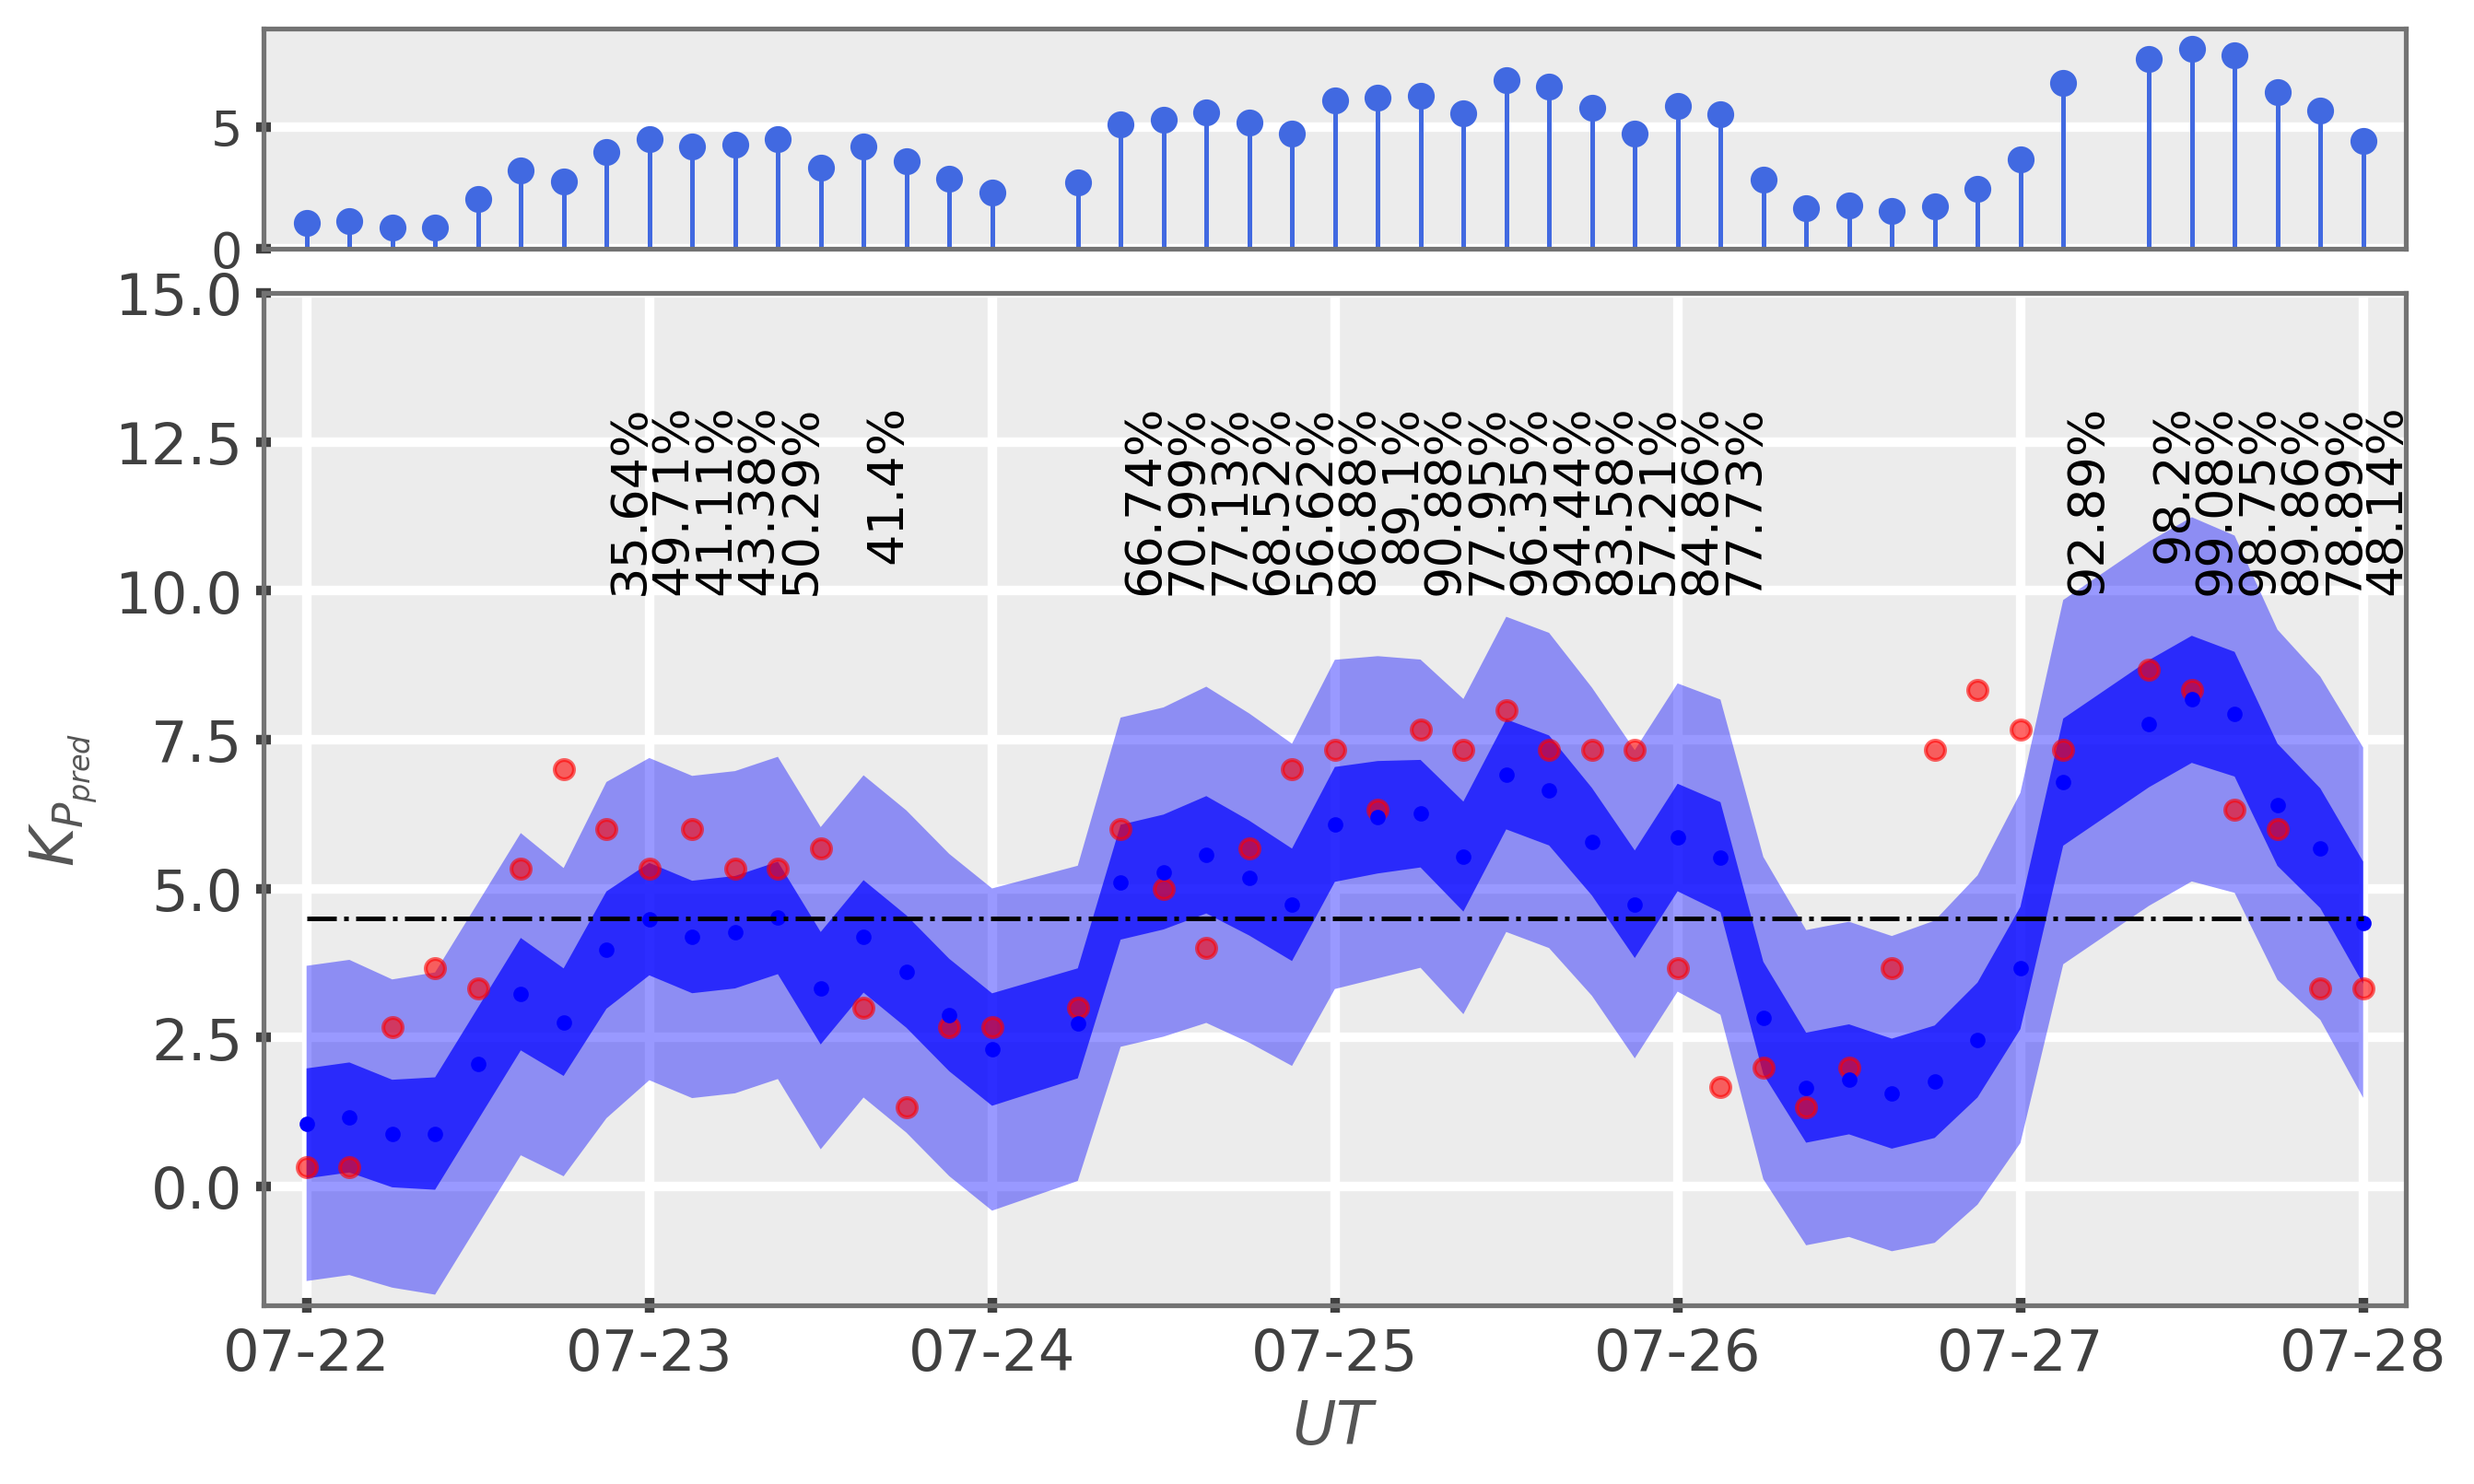
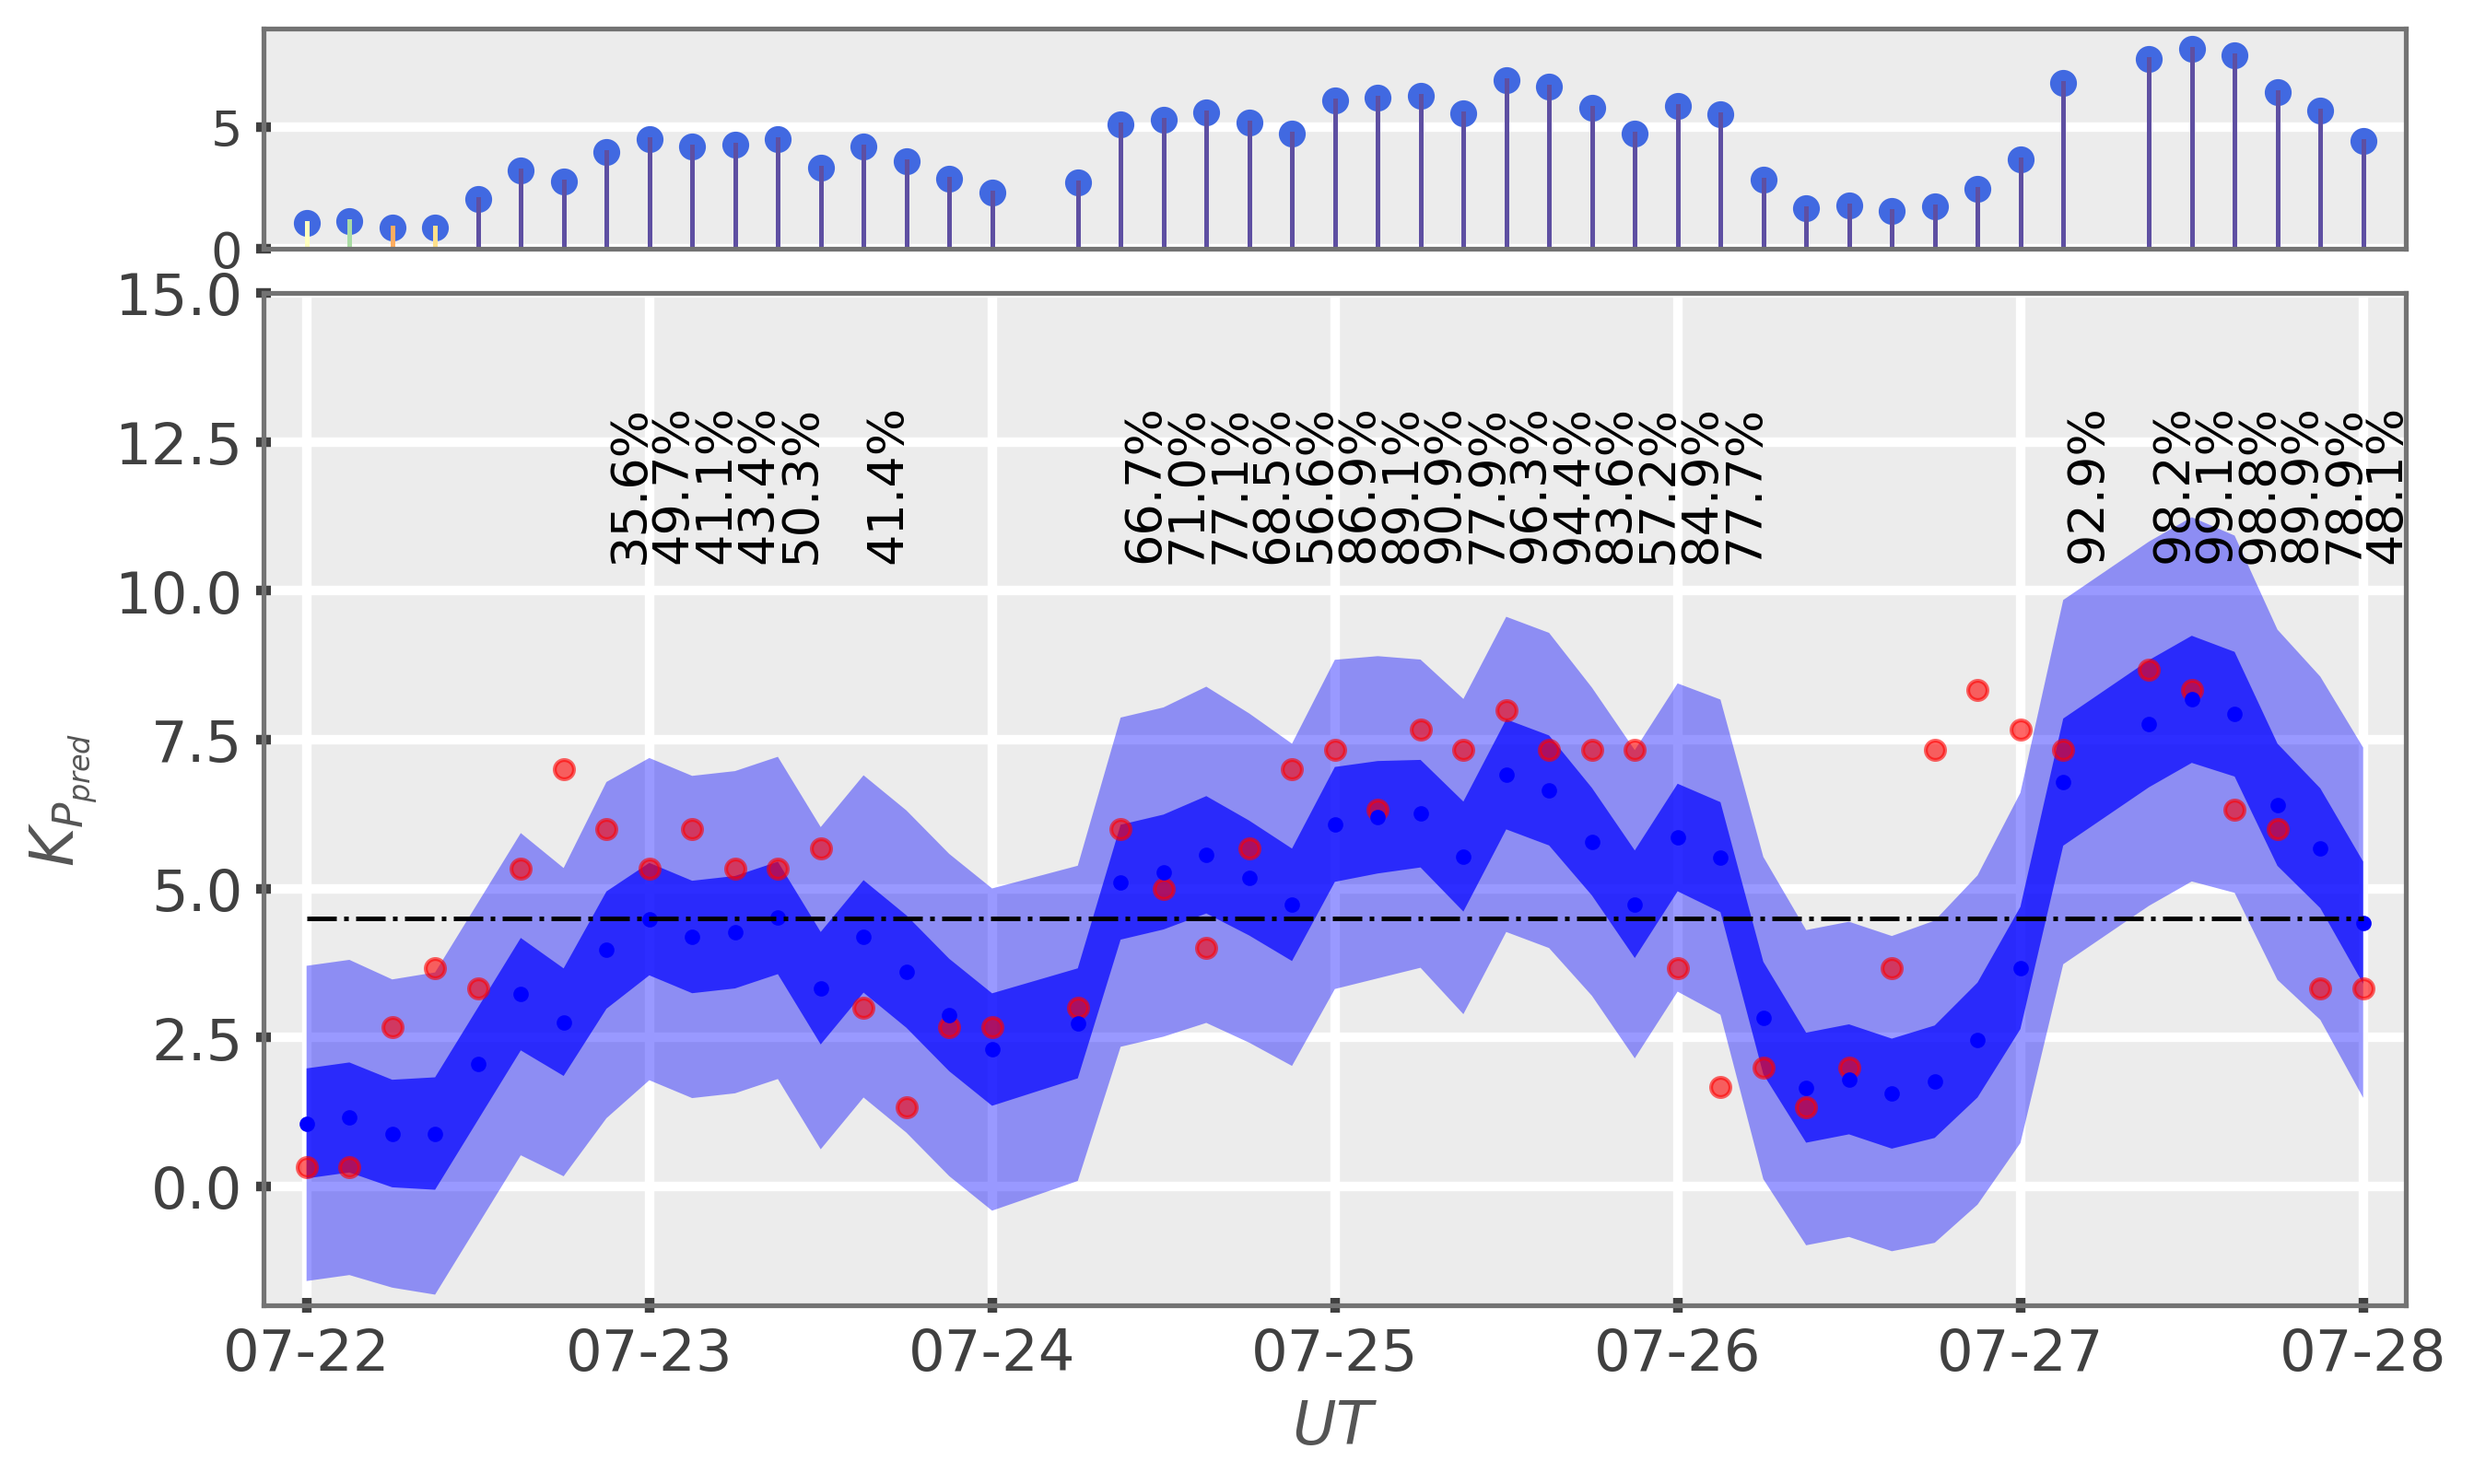
ft

diff --git a/util.py b/util.py
@@ -421,9 +421,10 @@ def proba_storm_forcast(model,trw):
     ax.set_xlim(dt.datetime(2004,7,21,21), dt.datetime(2004,7,28,3))
     cmap = matplotlib.cm.get_cmap('Spectral')
     for m,s,d in zip(y_pred, sigma,_o.dn.tolist()):
-        pr = np.round((1 - norm.cdf(4.5, m, s))*100,2)
+        pr = np.round((1 - norm.cdf(4.5, m, s))*100,1)
         if pr > 30.: ax.text(d,12.5,str(pr)+"%",rotation=90)
         markerline, stemlines, baseline = ax0.stem([d], [m],c=cmap(pr))
+        plt.setp(stemlines, 'color', cmap(pr))
         pass
     ax.set_ylim(-2,15)
     fig.savefig("out/stat/det.pred.%s.%d.forecast.png"%(model,trw),bbox_inches="tight")
